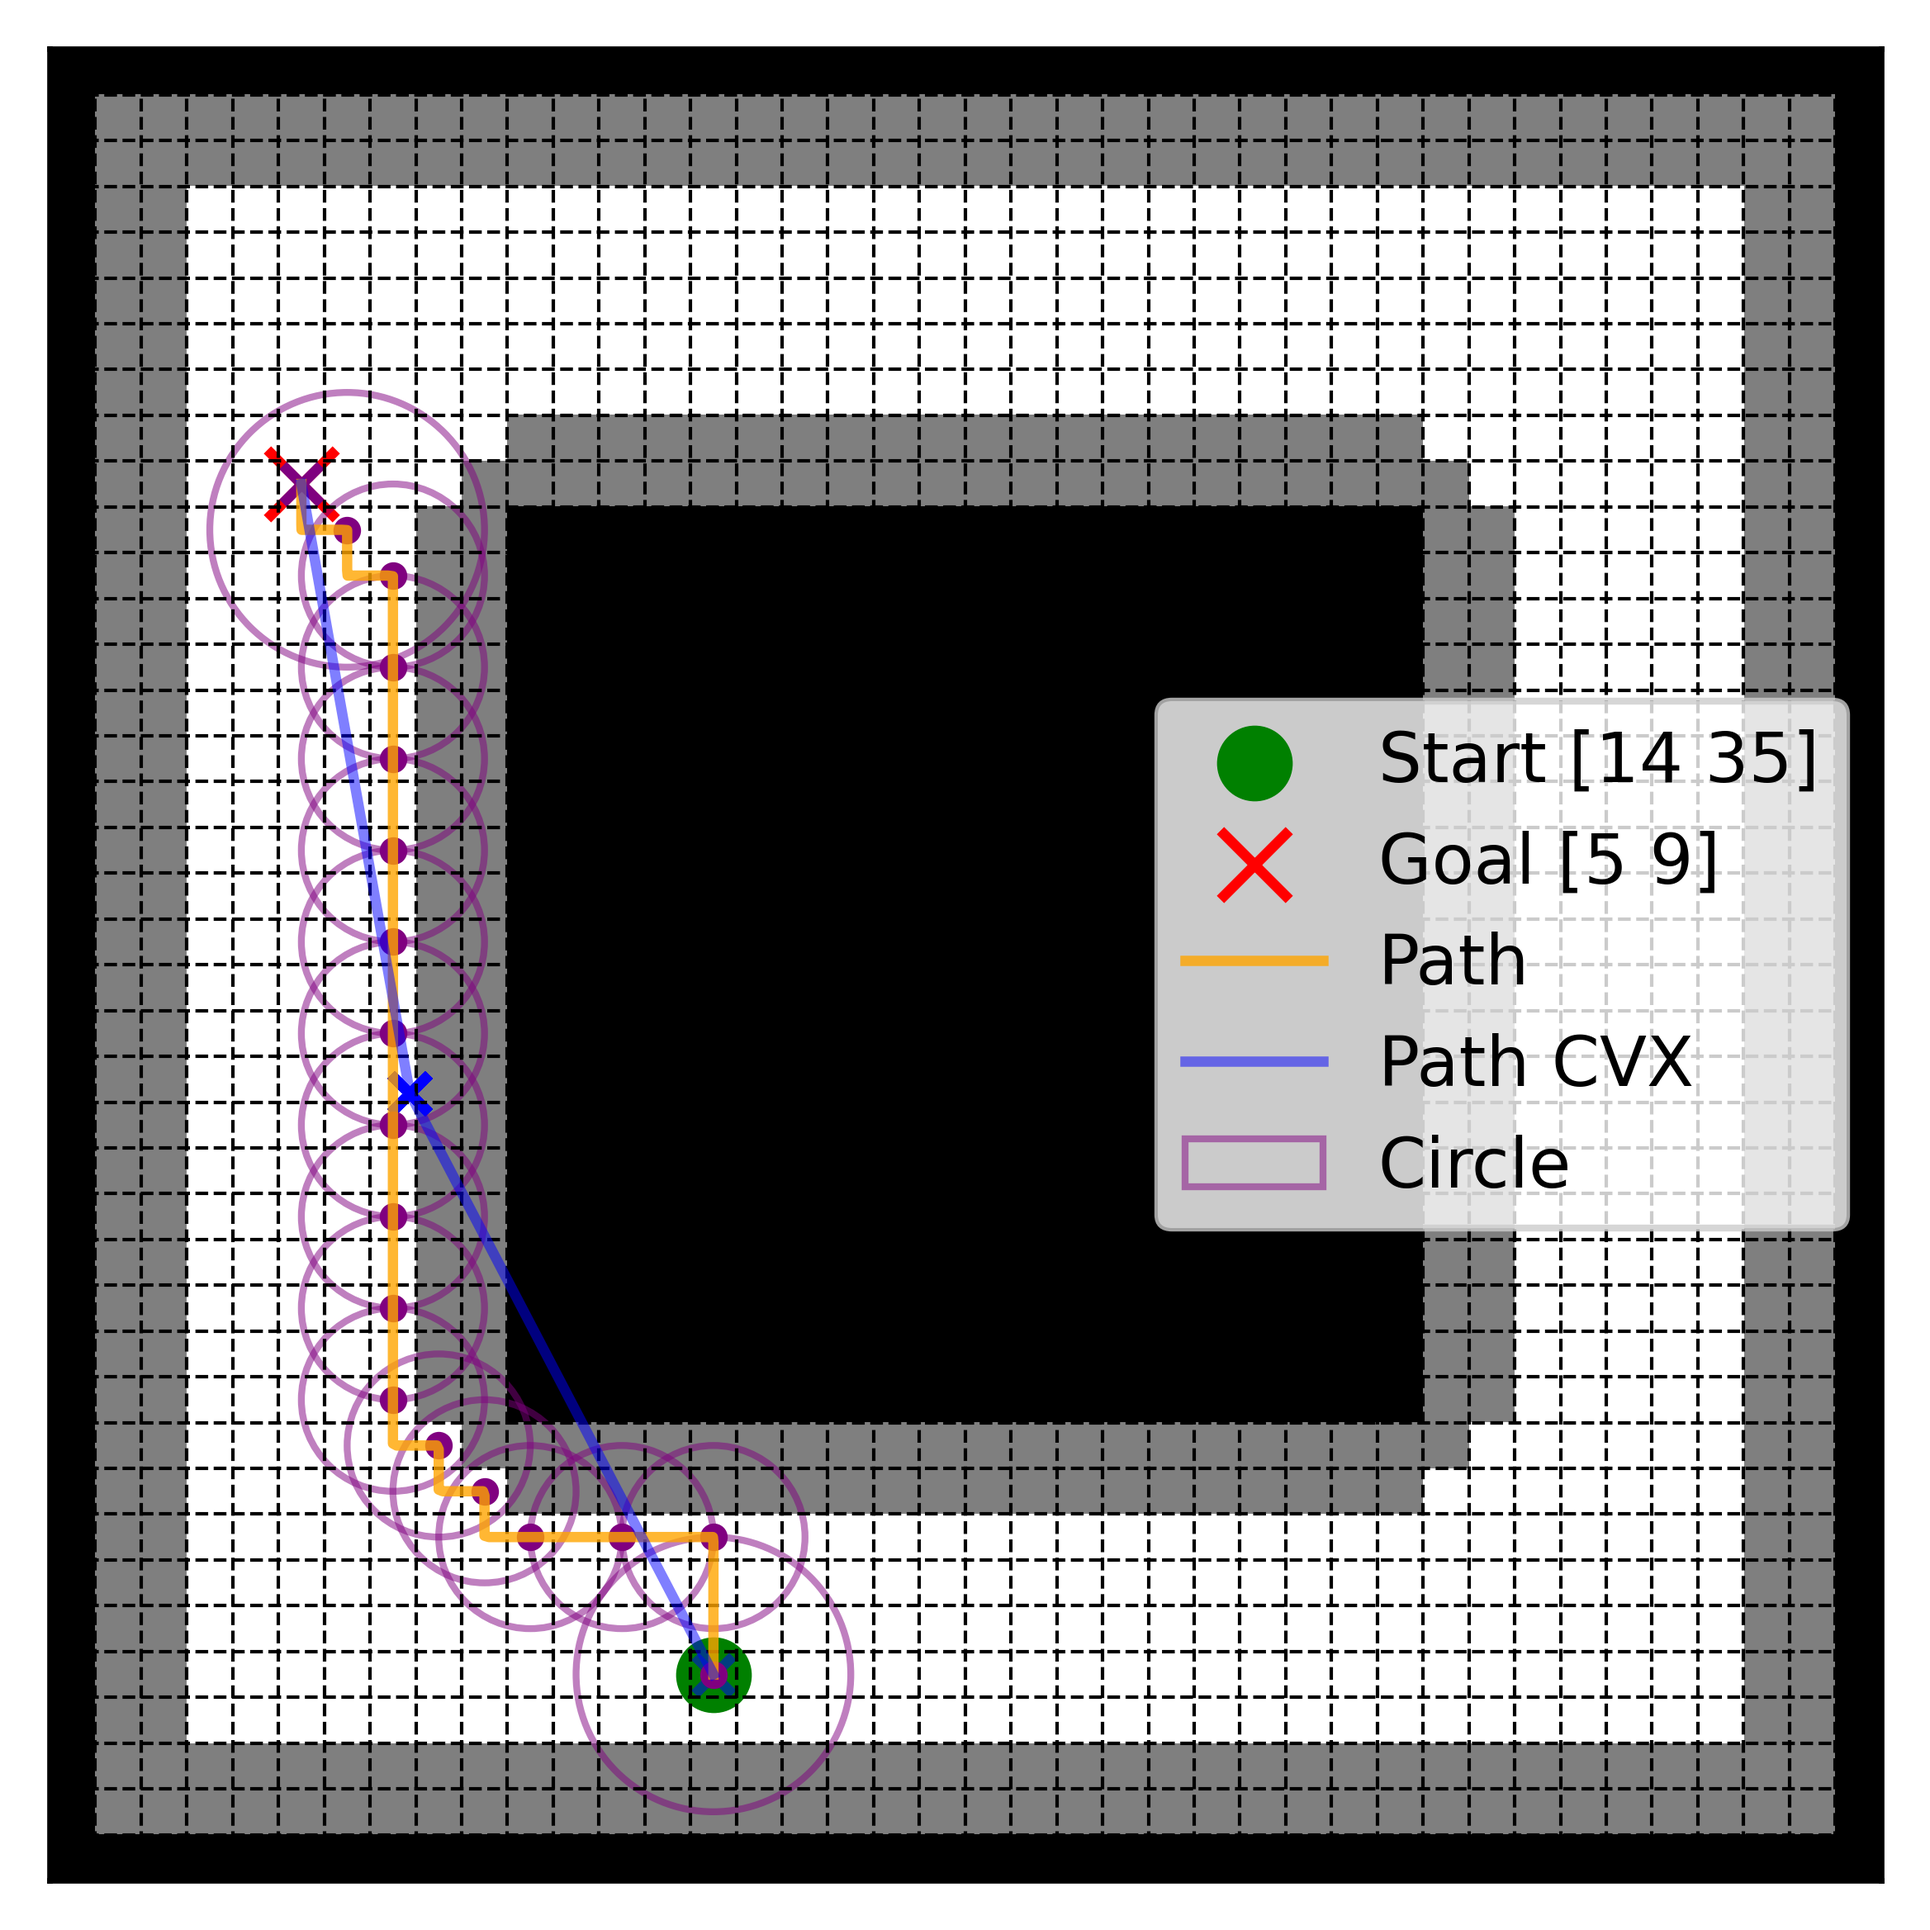
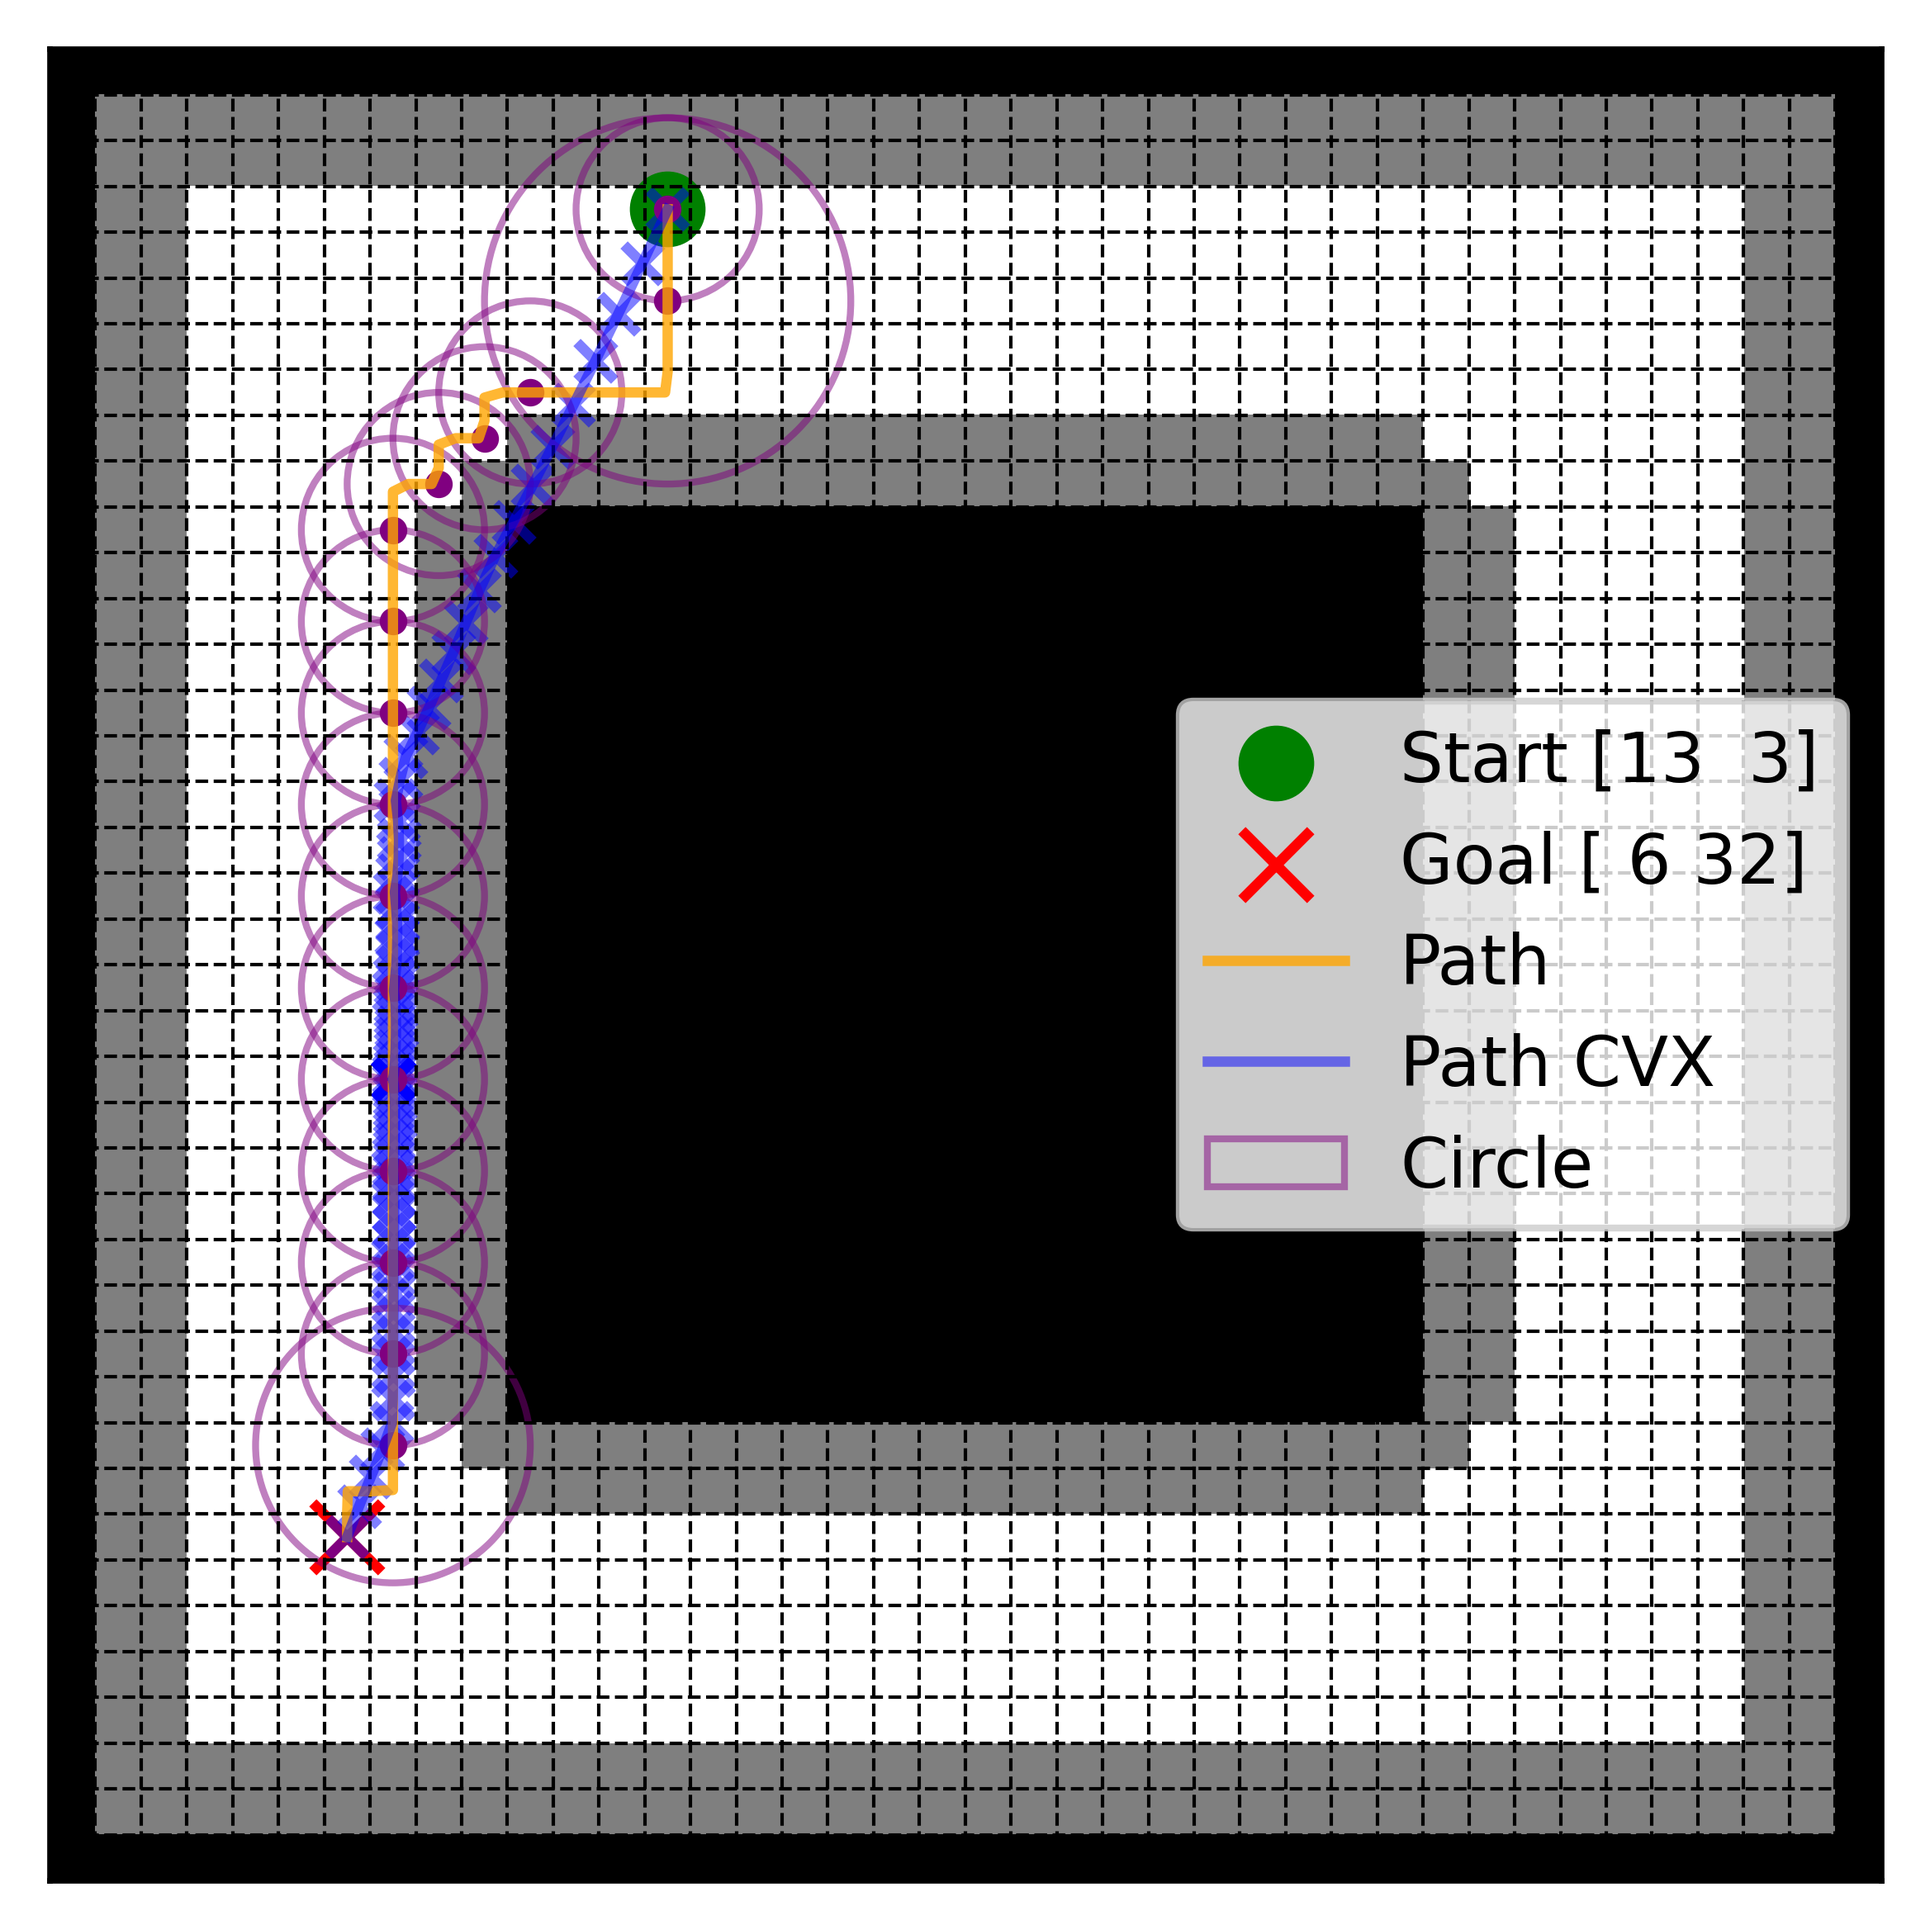
Added dynamics constraints for linear dynamics

diff --git a/src/main_convex_sanity_check.py b/src/main_convex_sanity_check.py
@@ -240,7 +240,7 @@ for circle in circles:
 num_points_original = len(path)
 path_length = np.sum(np.linalg.norm(path[1:] - path[:-1], axis=1))
 actual_points_per_unit = num_points_original / path_length
-desired_points_per_unit = 8
+desired_points_per_unit = 2
 sample_factor = desired_points_per_unit / actual_points_per_unit
 # TODO use scipy
 path = interp1d(np.arange(num_points_original), path, axis=0)(np.linspace(0, num_points_original - 1, int(num_points_original * sample_factor)))
@@ -248,9 +248,6 @@ path = interp1d(np.arange(num_points_original), path, axis=0)(np.linspace(0, num
 # ----------------------------------------------------------------
     
 # This is where we get convex with it
-
-# Lets have some dynamics
-dynamics = DynamicsTiny(dt=0.1)
 
 def sdf_values(path, circles):
     # If it's 1 point long make it 2d
@@ -265,7 +262,7 @@ def sdf_values(path, circles):
             d[i,j] = circles[j].sdf_value(*path[i])
     return d
 
-def scp_smooth_path(world, path, circles, sig=50, eps_ss=1e-4, max_iters=15, tol=1e-3):
+def scp_smooth_path(world, dynamics, path_init, action_init, circles, sig=50, eps_ss=1e-4, eps_dyn_slack=1e-2, eps_dyn=1e-5, max_iters=15, tol=1e-3):
     """
     Smooths a given path using Sequential Convex Programming (SCP) while ensuring each point 
     remains inside at least one circle.
@@ -278,18 +275,21 @@ def scp_smooth_path(world, path, circles, sig=50, eps_ss=1e-4, max_iters=15, tol
     max_iters: Maximum number of SCP iterations
     tol: Convergence tolerance
     """
-    path = np.array(path)
-    num_points = len(path)
+    path_init = np.array(path_init)
+    num_points = len(path_init)
     num_circles = len(circles)
 
     # Initialize the path
-    X_prev = np.copy(path)  # Initial guess (previous iteration's solution)
+    states_prev = np.copy(path_init)  # Initial guess (previous iteration's solution)
+    actions_prev = np.copy(action_init)
 
     for iter in tqdm(range(max_iters), desc="SCP Iteration"):
 
         # Define optimization variables (x, y coordinates for each path point)
-        X = cp.Variable((num_points, 2))
-        slack_sdf = cp.Variable((num_points,num_circles))
+        states = cp.Variable((num_points, 2))
+        actions = cp.Variable((num_points-1, 2))
+        slack_sdf = cp.Variable((num_points, num_circles))
+        nu = cp.Variable((num_points-1, 2))
 
         # ----------------------------------------------------------------
 
@@ -299,13 +299,13 @@ def scp_smooth_path(world, path, circles, sig=50, eps_ss=1e-4, max_iters=15, tol
         # ~~~~ Start and end constraints ~~~~
 
         # Start and end
-        constraints.append(X[0] == path[0])  # Fix start
-        constraints.append(X[-1] == path[-1])  # Fix goal
+        constraints.append(states[0] == path_init[0])  # Fix start
+        constraints.append(states[-1] == path_init[-1])  # Fix goal
 
         # ~~~~ SDF constraints ~~~~
 
         # slack sdf prev is going to be a matrix (num_timesteps, num_sdfs)
-        slack_sdf_prev = sdf_values(X_prev[:,:2],circles)
+        slack_sdf_prev = sdf_values(states_prev[:,:2],circles)
 
         # G's shape is the same
         G = gradient_log_softmax(sig, slack_sdf_prev)
@@ -318,26 +318,29 @@ def scp_smooth_path(world, path, circles, sig=50, eps_ss=1e-4, max_iters=15, tol
         constraints += [cp.diag( G @ (slack_sdf - slack_sdf_prev).T) + L0 >= 0]
         # This set of constraints ensures that the slack is always less than the true sdf values
         for i in range(num_circles):
-            constraints += [slack_sdf[k,i] <= 1 - (1/circles[i].radius)*cp.norm2(X[k] - np.array([circles[i].x,circles[i].y])) for k in range(num_points)]
+            constraints += [slack_sdf[k,i] <= 1 - (1/circles[i].radius)*cp.norm2(states[k] - np.array([circles[i].x,circles[i].y])) for k in range(num_points)]
 
         # ~~~~ Dynamics constraints ~~~~
             
-        # # Get affinized dynamics about the current point. We do this
-        # # in a batch so we actually have multiple A's and B's and C's\
-        # # here
-        # A, B, C = dynamics.affinize(X_prev[:-1], U_prev)
-        # A, B, C = np.array(A),np.array(B),np.array(C)
+        # Get affinized dynamics about the current point. We do this
+        # in a batch so we actually have multiple A's and B's and C's\
+        # here
+        A, B, C = dynamics.affinize(states_prev[:-1], actions_prev)
+        A, B, C = np.array(A),np.array(B),np.array(C)
 
-        # # Create virtual control term (recommended to be identity matrix)
-        # E = np.eye(2)
+        # Create virtual control term (recommended to be identity matrix)
+        E = np.eye(2)
 
-        # # From the prior solution
-        # nu_max = 1
+        # From the prior solution
+        nu_max = 1
 
-        # # Construct the dynamic feasibility constraint
-        # constraints += [x[k+1] == A[k] @ x[k] + B[k] @ u[k] + C[k] + E @ nu[k] for k in range(self.N - 1)]
+        # Construct the dynamic feasibility constraint
+        constraints += [states[k+1] == A[k] @ states[k] + B[k] @ actions[k] + C[k] + E @ nu[k] for k in range(num_points - 1)]
+        constraints += [cp.max(cp.abs(nu)) <= nu_max]
 
-        # constraints += [cp.max(cp.abs(nu)) <= nu_max]
+        # Constrain action inputs
+        constraints += [actions[k] >= dynamics.action_ranges()[:,0] for k in range(num_points - 1)]
+        constraints += [actions[k] <= dynamics.action_ranges()[:,1] for k in range(num_points - 1)]
 
         # ----------------------------------------------------------------
 
@@ -345,13 +348,17 @@ def scp_smooth_path(world, path, circles, sig=50, eps_ss=1e-4, max_iters=15, tol
         objective = 0
 
         # The distance objective is the sum of the squared distances between consecutive points (normalized)
-        distance_max = (cp.norm2(path[0] - path[-1]))**2 * (num_points - 1)
-        distance_objective = cp.sum([(cp.norm2(X[_k] - path[-1]))**2 for _k in range(num_points - 1)]) / distance_max
+        distance_max = (cp.norm2(path_init[0] - path_init[-1]))**2 * (num_points - 1)
+        distance_objective = cp.sum([(cp.norm2(states[_k] - path_init[-1]))**2 for _k in range(num_points - 1)]) / distance_max
         objective += distance_objective
 
         # The SDF objective attempts to minimize the slack
         sdf_objective = -eps_ss * cp.sum(slack_sdf)
         objective += sdf_objective
+
+        # Minimize dynamic slack variables and control inputs
+        dynamics_objective = eps_dyn_slack * cp.sum(nu**2) + eps_dyn * cp.sum(actions**2)
+        objective += dynamics_objective
 
         # ----------------------------------------------------------------
 
@@ -360,17 +367,28 @@ def scp_smooth_path(world, path, circles, sig=50, eps_ss=1e-4, max_iters=15, tol
         problem.solve()
 
         # Check convergence
-        if np.max(np.linalg.norm(X.value - X_prev, axis=0)) < tol:
+        if np.max(np.linalg.norm(states.value - states_prev, axis=0)) < tol:
             break
 
         # Update previous solution
-        X_prev = X.value
+        states_prev = states.value
+        actions_prev = actions.value
 
-    return X.value
+    return states.value, actions.value
 
+# Create dynamics
+dynamics = DynamicsTiny(dt=0.01)
 
 # Try to get convex path
-path_smooth = scp_smooth_path(world,path,circles).tolist()
+path_smooth,action_smooth = scp_smooth_path(
+    world=world,
+    dynamics=dynamics,
+    path_init=path,
+    action_init=[np.zeros(2)]*(len(path)-1),
+    circles=circles
+)
+path_smooth = path_smooth.tolist()
+action_smooth = action_smooth.tolist()
 
 # ----------------------------------------------------------------
 

diff --git a/src/dynamics_tiny.py b/src/dynamics_tiny.py
@@ -41,8 +41,8 @@ class DynamicsTiny:
     
     def action_ranges(self):
         return jnp.array([
-            [-1, 1],
-            [-1, 1],
+            [-0.25, 0.25],
+            [-0.25, 0.25],
         ]) 
     
     def state_delta(self, state, action):
